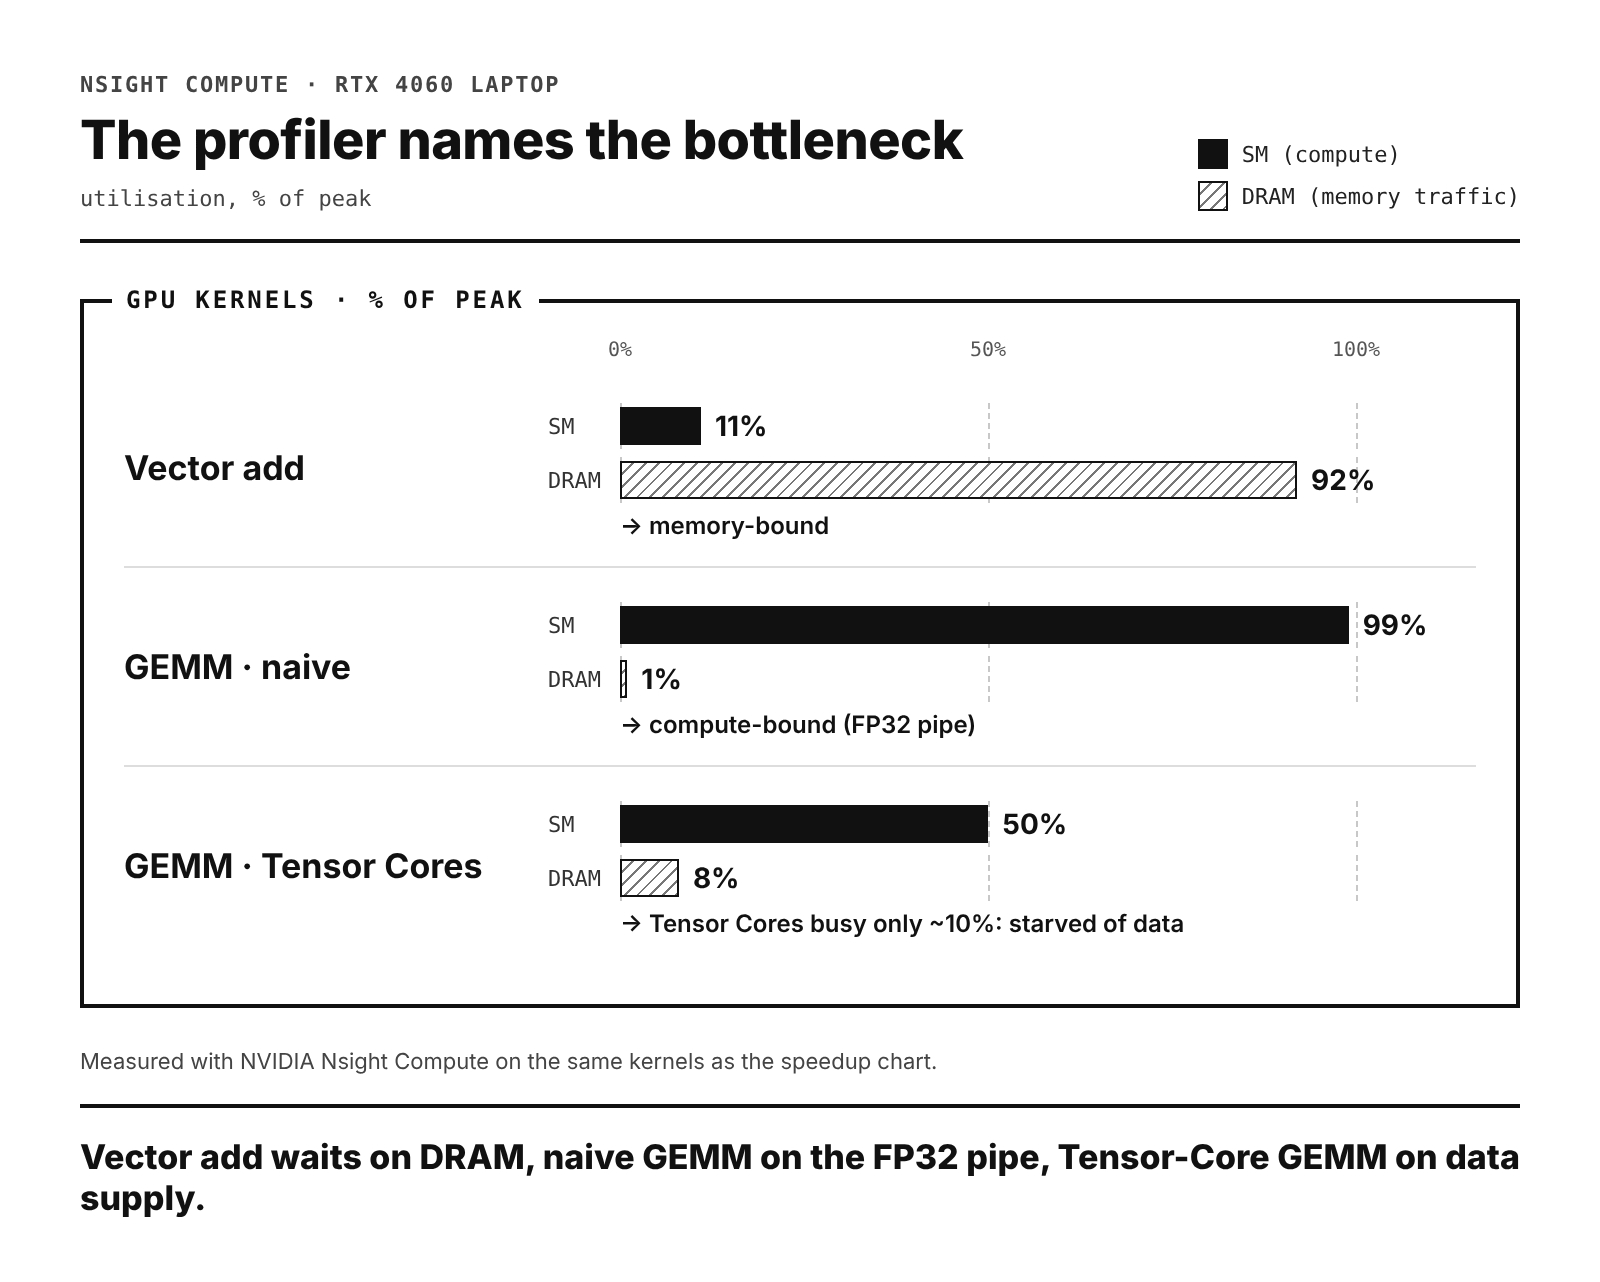
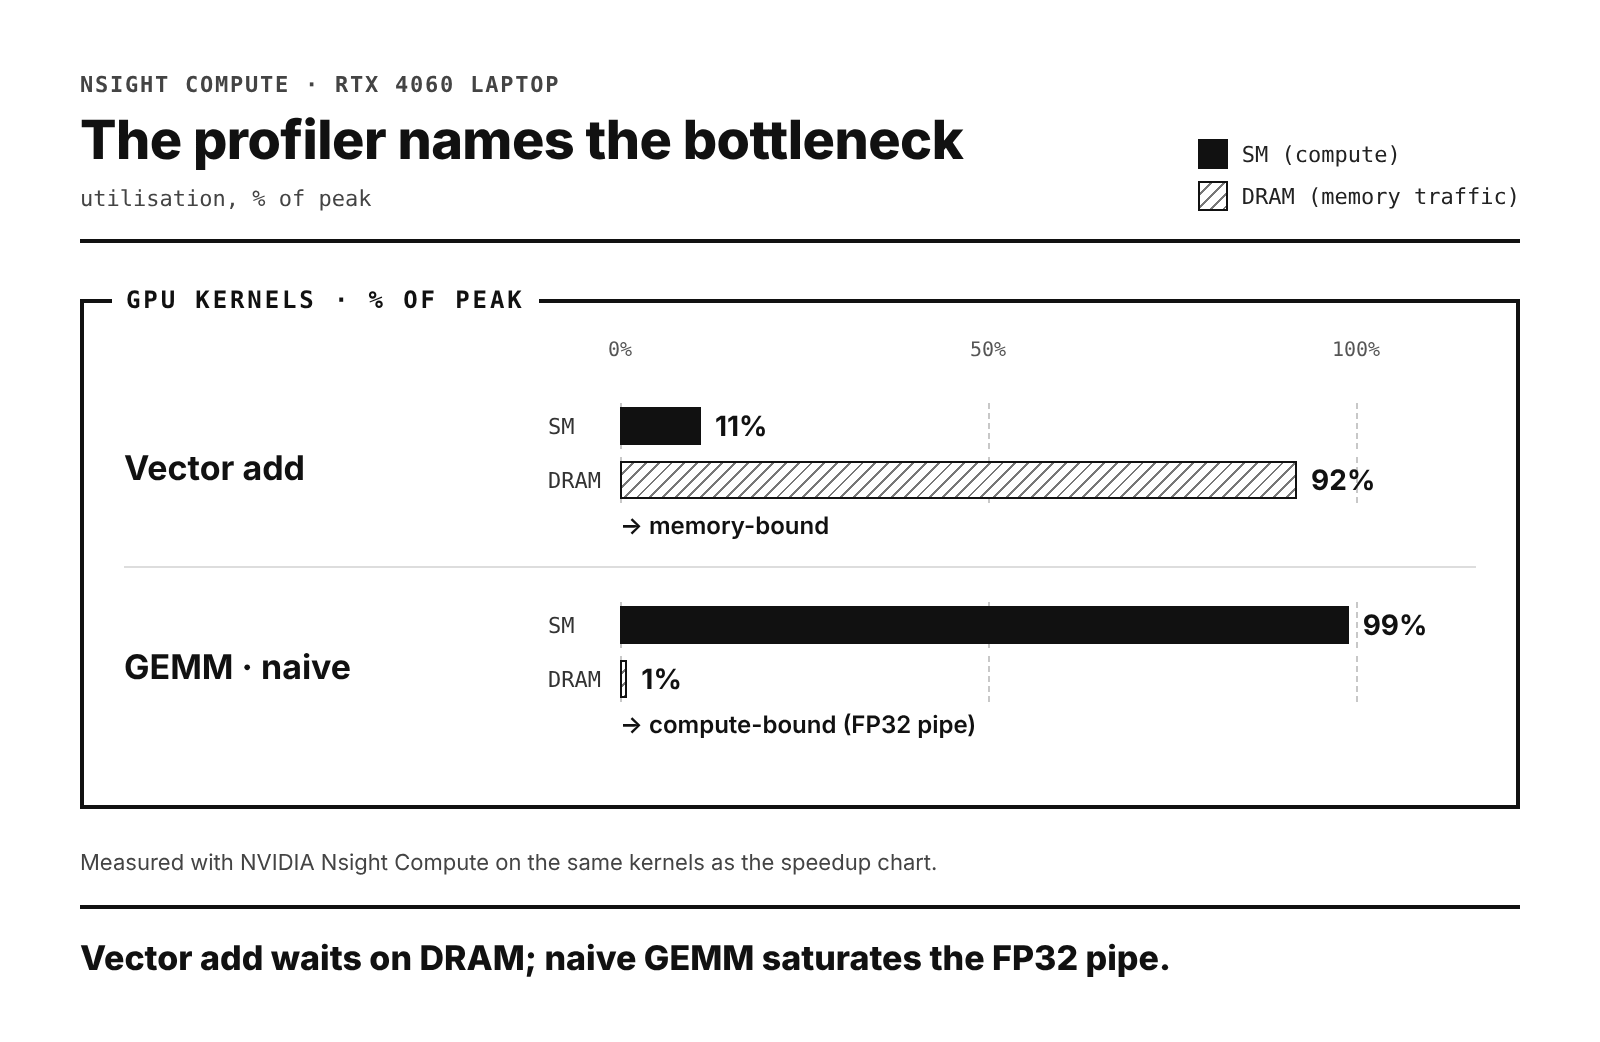
Add files via upload

diff --git a/tools/make_results_png.py b/tools/make_results_png.py
@@ -12,18 +12,18 @@ HERE = os.path.dirname(os.path.abspath(__file__))
 OUT = os.path.join(HERE, "..", "assets", "media")
 
 SPEEDUP = [  # kernel, arithmetic intensity, CPU speedup, GPU speedup, GPU note
-    ("Vector add", "0.083 FLOP/byte", 12.7, 1.0, "GPU: memory-bound, DRAM ~92% busy"),
-    ("Dot product", "0.25 FLOP/byte", 13.3, 28.7, "GPU: tree reduction removes the serial chain"),
-    ("GEMM", "170.7 FLOP/byte", 121.6, 3.7, "CPU: cache blocking + OpenMP + AVX2/FMA"),
+    ("Vector add", "0.083 FLOP/byte", 10.3, 1.0, "GPU: memory-bound, 224 GB/s = 88% of DRAM peak"),
+    ("Dot product", "0.25 FLOP/byte", 16.0, 34.5, "GPU: block reduction removes the single-address bottleneck"),
+    ("GEMM", "171 FLOP/byte", 113.9, 5.2, "CPU: cache blocking + OpenMP + AVX2/FMA"),
+    ("Attention", "15 → 363 FLOP/byte", 92.1, 50.1, "GPU: fusion + FP16 Tensor Cores"),
 ]
 GEMM_STEPS = {
-    "CPU": [("baseline", "0.707"), ("optimised", "86.03")],
-    "GPU": [("naive", "730"), ("tiled", "934"), ("Tensor Cores", "2,679")],
+    "CPU": [("baseline", "0.732"), ("optimised", "83.4")],
+    "GPU": [("naive", "874"), ("tiled", "1,192"), ("Tensor Cores", "4,551")],
 }
-PROFILE = [  # kernel, SM %, DRAM %, verdict
+PROFILE = [  # kernel, SM %, DRAM %, verdict  (v1.1: Tensor-Core GEMM row removed, kernel rewritten)
     ("Vector add", 11, 92, "memory-bound"),
     ("GEMM · naive", 99, 1, "compute-bound (FP32 pipe)"),
-    ("GEMM · Tensor Cores", 50, 8, "Tensor Cores busy only ~10%: starved of data"),
 ]
 
 CSS = """
@@ -104,8 +104,8 @@ def speedup_html():
 <div class=row style="padding:0;border:0;margin-top:-30px"><div></div><div class=bar style="height:40px;margin:0"><div class=lab></div><div class=track>{ticks}</div></div></div>
 {rows}</div>
 <div class=frame><div class=tab>GEMM THROUGHPUT · GFLOP/s</div><div class=steps>{steps}</div></div>
-<div class=cap>Every optimised output validated against a reference implementation. TF32 GEMM max relative error 0.0686%.</div>
-<div class=take>The bottleneck decides the payoff: GEMM gains 121.6× on the CPU, memory-bound vector add 1.0× on the GPU.</div>"""
+<div class=cap>Every optimised output validated against a double-precision reference. TF32 GEMM max relative error 0.004%, FP16 attention 0.03%.</div>
+<div class=take>The bottleneck decides the payoff: GEMM gains 114× on the CPU, attention 50× on the GPU, memory-bound vector add 1.0×.</div>"""
     return page(body)
 
 
@@ -128,7 +128,7 @@ def profiler_html():
 <div class=row style="padding:0;border:0;margin-top:-30px"><div></div><div class=bar style="height:40px;margin:0"><div class=lab></div><div class=track>{grid}</div></div></div>
 {rows}</div>
 <div class=cap>Measured with NVIDIA Nsight Compute on the same kernels as the speedup chart.</div>
-<div class=take>Vector add waits on DRAM, naive GEMM on the FP32 pipe, Tensor-Core GEMM on data supply.</div>"""
+<div class=take>Vector add waits on DRAM; naive GEMM saturates the FP32 pipe.</div>"""
     return page(body)
 
 

diff --git a/README.md b/README.md
@@ -29,7 +29,8 @@
 
 Final-year Robotics & Automation student (Honors in Embedded Systems) at Symbiosis Institute of Technology, Pune, **working my way down the stack**. I started with autonomous systems that perceive, decide and act. Now most of my time goes to what sits underneath them: the kernels, the compilers and the hardware that decide how fast any of it runs.
 
-- **Currently building:** an LLVM loop-analysis pass, a C-like compiler with an LLVM IR backend, and an ML-workload extension to my roofline study
+- **Currently building:** an LLVM loop-analysis pass and a C-like compiler with an LLVM IR backend
+- **Recently shipped:** a FlashAttention-style fused attention kernel, **50× faster** than naive on an RTX 4060 ([repo](https://github.com/Fe3w/GPU-CPU-Performance-Profiling_and-Optimization))
 - **Looking for:** internships in compiler optimization, CPU/GPU performance engineering, systems software and accelerated computing
 - **Ask me about:** roofline models, why a GEMM is memory-bound until it isn't, LLVM's new pass manager, perception-to-control pipelines in ROS 2
 - **Off-keyboard:** led design for Team Robominds to the DD Robocon 2026 National Finals at IIT Delhi
@@ -50,8 +51,8 @@ Final-year Robotics & Automation student (Honors in Embedded Systems) at Symbios
 |---|---|---|---|
 | LLVM / Clang · LLVM IR | CUDA · PTX · WMMA | ROS 2 (Humble / Jazzy) · Gazebo | Qwen2.5-VL · InternVL3.5 fine-tuning |
 | New-pass-manager plugins | OpenMP · AVX2 / FMA | NVIDIA Isaac Sim · Dobot Magician | Synthetic data pipelines |
-| Roofline · arithmetic intensity | TF32 Tensor Cores | STM32 · ESP32 · RTOS concepts | OpenCV · MediaPipe |
-| Nsight Compute · Intel VTune | Cache blocking · shared-memory tiling | UART / SPI / I²C / CAN · MQTT | Keras · NumPy · Pandas |
+| Roofline · arithmetic intensity | TF32 / FP16 Tensor Cores | STM32 · ESP32 · RTOS concepts | OpenCV · MediaPipe |
+| Nsight Compute / Systems · Intel VTune | Cache blocking · shared-memory tiling · kernel fusion | UART / SPI / I²C / CAN · MQTT | Keras · NumPy · Pandas |
 | GCC · micro-benchmarking | Ampere / Hopper SM architecture | MATLAB · Simulink · Stateflow | SystemVerilog · Intel Quartus |
 
 </details>
@@ -63,24 +64,25 @@ Final-year Robotics & Automation student (Honors in Embedded Systems) at Symbios
 ### `03 — PERFORMANCE ENGINEERING`
 
 #### Heterogeneous CPU/GPU Performance Analysis & Roofline Profiling
-<sub><code>Honors project · 2026</code> · core benchmarks done · ML-workload extension in progress · <code>C++ · OpenMP · AVX2/FMA · CUDA · WMMA · VTune · Nsight Compute</code></sub>
+<sub><code>Honors project · 2026</code> · complete · v1.1 · <code>C++ · CUDA · WMMA · OpenMP · AVX2/FMA · Nsight Compute · Nsight Systems · VTune</code></sub>
 
-[**Project report**](https://drive.google.com/file/d/1XhWOYI6mYyLRbKIm25UFTFQibAgZOgr0/view?usp=sharing) · [**Seminar paper**](https://drive.google.com/file/d/1Iqg1ht8dw_D7Ud5cnDXnYjy3pSv4l__W/view?usp=sharing)
+[**Repository →**](https://github.com/Fe3w/GPU-CPU-Performance-Profiling_and-Optimization) · [**Project report**](https://drive.google.com/file/d/1XhWOYI6mYyLRbKIm25UFTFQibAgZOgr0/view?usp=sharing) · [**Seminar paper**](https://drive.google.com/file/d/1Iqg1ht8dw_D7Ud5cnDXnYjy3pSv4l__W/view?usp=sharing)
 
-How far are textbook kernels from what the hardware can actually do, and *why*? I benchmarked baseline kernels on an **Intel Core i7-13650HX** and an **NVIDIA RTX 4060 Laptop GPU**, optimized them step by step, and used profiling plus Roofline analysis to explain each gap: memory bandwidth, core utilization, register pressure, occupancy.
+How far are textbook kernels from what the hardware can actually do, and *why*? Four workloads (vector add, dot product, matrix multiply and **Transformer attention**) optimized in three stages each on an **Intel Core i7-13650HX** and an **NVIDIA RTX 4060 Laptop GPU**, verified against double precision, and explained with profiling and Roofline analysis.
 
-| Kernel | Arithmetic intensity | CPU speedup | GPU speedup | What limits the GPU (Nsight Compute) |
+| Kernel | Arithmetic intensity | CPU speedup | GPU speedup | What limits it |
 |---|---|---|---|---|
-| Vector add | 0.083 FLOP/byte | **12.7×** | **1.0×** | DRAM 92% busy → memory-bound |
-| Dot product | 0.25 FLOP/byte | **13.3×** | **28.7×** | tree reduction removes the serial chain |
-| GEMM | 170.7 FLOP/byte | **121.6×** · 0.707 → 86.03 GFLOP/s | **3.7×** · 730 → 2,679 GFLOP/s | naive: SM 99% (FP32 pipe) · Tensor Cores: starved of data |
+| Vector add | 0.083 FLOP/byte | **10.3×** | **1.0×** | memory-bound: 224 GB/s, 88% of DRAM peak |
+| Dot product | 0.25 FLOP/byte | **16.0×** | **34.5×** | block reduction removes the single-address atomic bottleneck |
+| GEMM | 171 FLOP/byte | **114×** · 0.73 → 83.4 GFLOP/s | **5.2×** · 874 → 4,551 GFLOP/s | shared-memory tiling, then TF32 Tensor Cores |
+| Attention | 15 → 363 FLOP/byte | **92.1×** | **50.1×** · 13.5 TFLOP/s | fusion cuts DRAM traffic 24–31×, then FP16 Tensor Cores |
 
-<sub>CPU: cache blocking · OpenMP · AVX2/FMA. GPU: coalescing · block reduction · shared-memory tiling · TF32 WMMA Tensor Cores. Every output validated against a reference implementation · TF32 GEMM max relative error <b>0.0686%</b>.</sub>
+<sub>CPU: cache blocking · OpenMP · AVX2/FMA. GPU: coalescing · block reduction · shared-memory tiling · FlashAttention-style fusion · TF32/FP16 WMMA Tensor Cores. All 34 stage runs verified against a double-precision reference · TF32 GEMM error <b>0.004%</b> · FP16 attention <b>0.03%</b>. One session, run <code>20261106-151143</code>.</sub>
 
 <table>
   <tr>
-    <td width="33%" valign="top"><a href="assets/media/results-speedup.png"><img src="assets/media/results-speedup.png" width="100%" alt="Results: speedup per kernel" /></a><br><sub><b>Results</b> · speedup per kernel</sub></td>
-    <td width="33%" valign="top"><a href="assets/media/results-profiler.png"><img src="assets/media/results-profiler.png" width="100%" alt="Results: profiler bottlenecks" /></a><br><sub><b>Results</b> · profiler bottlenecks</sub></td>
+    <td width="33%" valign="top"><a href="assets/media/results-speedup.png"><img src="assets/media/results-speedup.png" width="100%" alt="Results: speedup per kernel, log scale. Vector add CPU 10.3x GPU 1.0x; dot product CPU 16.0x GPU 34.5x; GEMM CPU 113.9x GPU 5.2x; attention CPU 92.1x GPU 50.1x" /></a><br><sub><b>Results</b> · speedup per kernel</sub></td>
+    <td width="33%" valign="top"><a href="assets/media/results-profiler.png"><img src="assets/media/results-profiler.png" width="100%" alt="Results: Nsight Compute. Vector add memory-bound (SM 11%, DRAM 92%); naive GEMM compute-bound (SM 99%, DRAM 1%)" /></a><br><sub><b>Results</b> · profiler bottlenecks</sub></td>
     <td width="33%" valign="top"><a href="assets/media/arch-cpu-vs-gpu.png"><img src="assets/media/arch-cpu-vs-gpu.png" width="100%" alt="Architecture: where the silicon goes" /></a><br><sub><b>Architecture</b> · where the silicon goes</sub></td>
   </tr>
   <tr>
@@ -91,17 +93,15 @@ How far are textbook kernels from what the hardware can actually do, and *why*? 
 
 <sub>Click any chart or diagram to open it full size.</sub>
 
-**CPU vs GPU, explained with my measurements** · a 103-second walkthrough: where the silicon goes, how work flows through each processor, the memory hierarchy, the optimisation techniques, the measured results and which workloads suit which processor.
+**Every workload, CPU vs GPU, in 72 seconds** · animated from the final measurements: the optimization ladder, where each speedup comes from, the Roofline, and why the attention kernel ends up 50× faster.
 
-https://github.com/user-attachments/assets/b8438f65-99d4-4611-a12c-56aaf073b32a
+https://github.com/user-attachments/assets/09a2eef4-9177-4cbb-a606-08fad9ee938b
 
 **Real-time race on the GPU** · every kernel version runs against one shared clock until the slowest (the dot-product baseline) has finished three times; playback is slowed so the race is visible. In this run, block reduction takes the dot product from 227.48 ms to 6.50 ms (**34.98×**), GEMM goes 14.55 → 9.98 → 3.85 ms (tiled **1.46×**, TF32 Tensor Cores **3.78×**, 2,987 GFLOP/s), and coalescing leaves the memory-bound vector add unchanged (0.99×).
 
 https://github.com/user-attachments/assets/59c39e98-2050-4bd9-8ce8-9170273fc229
 
 <sub>A separate run from the report table above, so the figures differ slightly.</sub>
-
-**Next:** extending the study to ML workloads (in progress).
 
 #### Seminar paper · Breaking the Compute Bottleneck
 <sub><code>Honors seminar · 2026</code></sub> · [**Read the paper**](https://drive.google.com/file/d/1Iqg1ht8dw_D7Ud5cnDXnYjy3pSv4l__W/view?usp=sharing)
